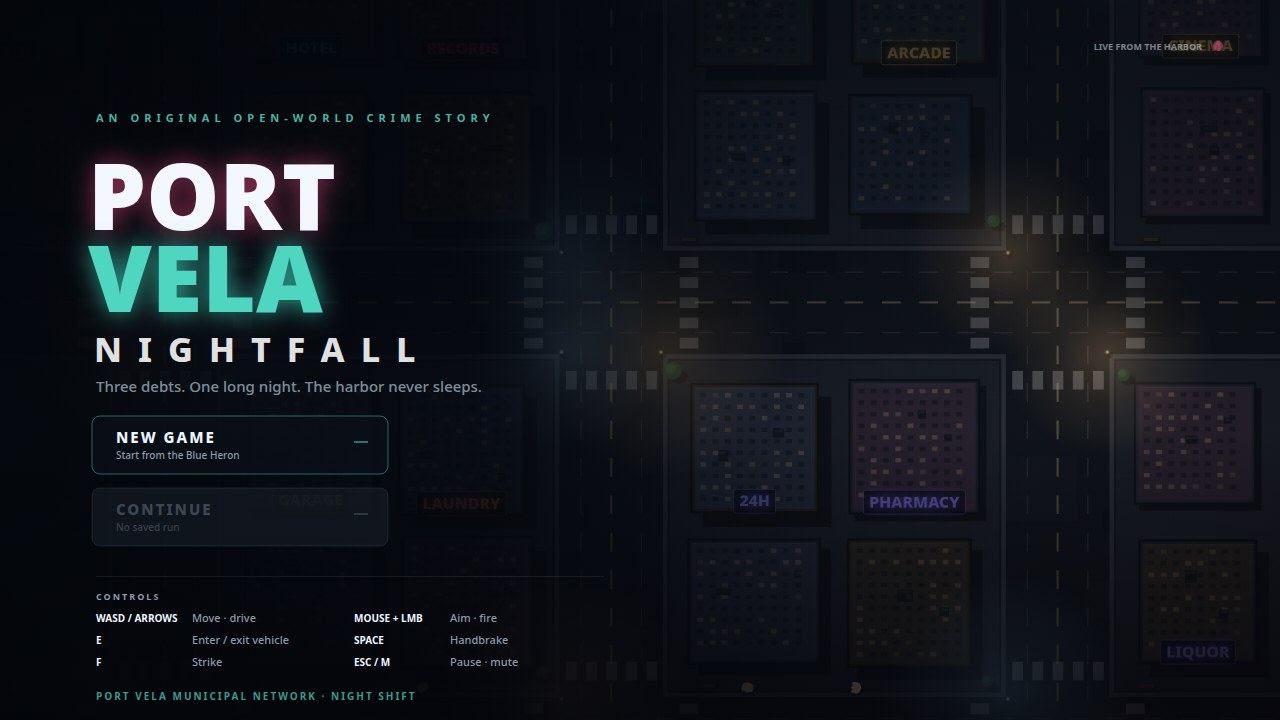
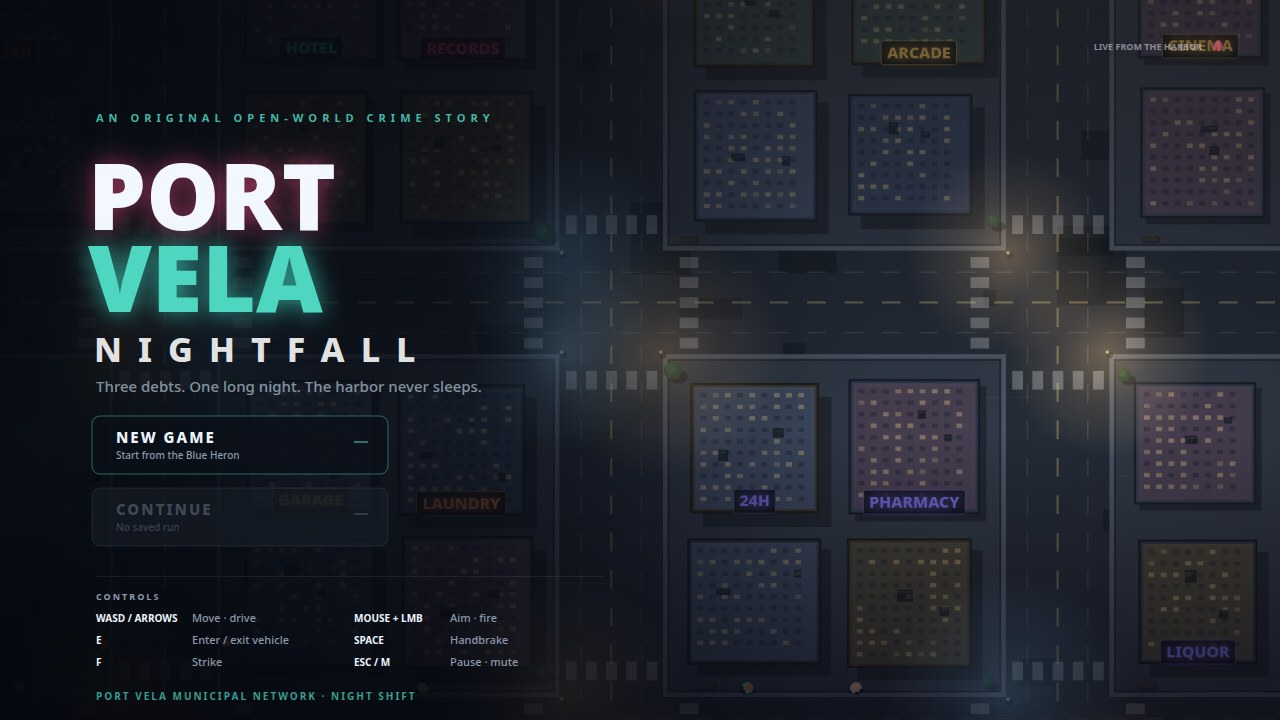
polish: brighter dusk palette, minimap landmarks, pause stats
Lift the city out of near-black so the screenshots read at a glance, warm the
light pools, mark VPD and Mercy on the minimap, and show chapter, cash, takedowns
and heat on the pause screen. Regenerate all four Chromium screenshots.

Changed region(s): [[0.375, 0.0, 1.0, 1.0], [0.5625, 0.0, 0.5938, 0.0306]]

diff --git a/game/src/render.js b/game/src/render.js
@@ -40,9 +40,9 @@ export function createRenderer(canvas) {
     if (sw > 0 && sh > 0) ctx.drawImage(cityCanvas, sx, sy, sw, sh, sx, sy, sw, sh);
 
     const g = ctx.createLinearGradient(v.x, v.y, v.x, v.y + v.h);
-    g.addColorStop(0, 'rgba(6,10,22,0.30)');
-    g.addColorStop(0.55, 'rgba(4,7,16,0.22)');
-    g.addColorStop(1, 'rgba(2,4,10,0.38)');
+    g.addColorStop(0, 'rgba(34,48,78,0.16)');
+    g.addColorStop(0.55, 'rgba(18,26,46,0.08)');
+    g.addColorStop(1, 'rgba(10,16,32,0.18)');
     ctx.fillStyle = g;
     ctx.fillRect(v.x, v.y, v.w, v.h);
 
@@ -65,8 +65,8 @@ export function createRenderer(canvas) {
       if (lamp.x < v.x - 190 || lamp.x > v.x + v.w + 190 || lamp.y < v.y - 190 || lamp.y > v.y + v.h + 190) continue;
       const grad = ctx.createRadialGradient(lamp.x, lamp.y, 4, lamp.x, lamp.y, lamp.r);
       const warm = lamp.tone > 0.55 ? '255,190,110' : '130,210,255';
-      grad.addColorStop(0, `rgba(${warm},0.28)`);
-      grad.addColorStop(0.45, `rgba(${warm},0.11)`);
+      grad.addColorStop(0, `rgba(${warm},0.36)`);
+      grad.addColorStop(0.45, `rgba(${warm},0.15)`);
       grad.addColorStop(1, `rgba(${warm},0)`);
       ctx.fillStyle = grad;
       ctx.beginPath();
@@ -253,7 +253,7 @@ export function createRenderer(canvas) {
   function drawVignette(game) {
     const grad = ctx.createRadialGradient(VIEW.width / 2, VIEW.height / 2, VIEW.height * 0.34, VIEW.width / 2, VIEW.height / 2, VIEW.width * 0.76);
     grad.addColorStop(0, 'rgba(0,0,0,0)');
-    grad.addColorStop(1, 'rgba(0,0,0,0.48)');
+    grad.addColorStop(1, 'rgba(0,0,0,0.28)');
     ctx.fillStyle = grad;
     ctx.fillRect(0, 0, VIEW.width, VIEW.height);
     if (game.effects.flash > 0) {
@@ -263,9 +263,9 @@ export function createRenderer(canvas) {
       ctx.globalAlpha = 1;
     }
     const scan = ctx.createLinearGradient(0, 0, 0, VIEW.height);
-    scan.addColorStop(0, 'rgba(90,140,190,0.05)');
+    scan.addColorStop(0, 'rgba(255,168,110,0.06)');
     scan.addColorStop(0.5, 'rgba(0,0,0,0)');
-    scan.addColorStop(1, 'rgba(160,70,120,0.05)');
+    scan.addColorStop(1, 'rgba(150,90,210,0.06)');
     ctx.fillStyle = scan;
     ctx.fillRect(0, 0, VIEW.width, VIEW.height);
   }
@@ -460,11 +460,11 @@ function buildCityCanvas() {
         c.fill();
       }
       c.globalAlpha = 1;
-      c.fillStyle = '#34372f';
+      c.fillStyle = '#4b4e42';
       c.fillRect(block.x0 + (block.x1 - block.x0) / 2 - 14, block.y0, 28, block.y1 - block.y0);
       c.fillRect(block.x0, block.y0 + (block.y1 - block.y0) / 2 - 14, block.x1 - block.x0, 28);
     } else if (block.type === 'lot') {
-      c.fillStyle = '#1b2028';
+      c.fillStyle = '#2e3642';
       c.fillRect(block.x0, block.y0, block.x1 - block.x0, block.y1 - block.y0);
       c.strokeStyle = 'rgba(190,190,160,0.22)';
       c.lineWidth = 2;
@@ -479,9 +479,9 @@ function buildCityCanvas() {
         c.stroke();
       }
     } else {
-      c.fillStyle = '#262b34';
+      c.fillStyle = '#3a4350';
       c.fillRect(block.x0, block.y0, block.x1 - block.x0, block.y1 - block.y0);
-      c.fillStyle = 'rgba(255,255,255,0.025)';
+      c.fillStyle = 'rgba(255,255,255,0.05)';
       for (let i = 0; i < 10; i++) c.fillRect(block.x0 + rng() * (block.x1 - block.x0), block.y0 + rng() * (block.y1 - block.y0), 30 + rng() * 80, 2);
     }
     c.strokeStyle = COLORS.sidewalkEdge;
@@ -604,7 +604,7 @@ function drawRoadMarkings(c) {
 
 function drawBuilding(c, b) {
   const shadow = 8 + b.height * 2.4;
-  c.fillStyle = 'rgba(0,0,0,0.46)';
+  c.fillStyle = 'rgba(0,0,0,0.32)';
   c.fillRect(b.x + shadow * 0.5, b.y + shadow * 0.55, b.w, b.h);
   c.fillStyle = b.wall;
   c.fillRect(b.x, b.y, b.w, b.h);
@@ -621,8 +621,8 @@ function drawBuilding(c, b) {
   const cols = Math.max(1, Math.floor((b.w - 20) / 17));
   for (let r = 0; r < rows; r++) {
     for (let q = 0; q < cols; q++) {
-      const lit = hash01(r * 17 + q * 3 + b.x + b.y + b.lit * 40) > 0.68;
-      c.fillStyle = lit ? `rgba(255,214,145,${0.14 + hash01(q + r) * 0.18})` : 'rgba(8,14,24,0.42)';
+      const lit = hash01(r * 17 + q * 3 + b.x + b.y + b.lit * 40) > 0.58;
+      c.fillStyle = lit ? `rgba(255,218,150,${0.24 + hash01(q + r) * 0.24})` : 'rgba(18,26,38,0.32)';
       c.fillRect(b.x + 14 + q * 17, b.y + 14 + r * 16, 8, 6);
     }
   }

diff --git a/game/src/hud.js b/game/src/hud.js
@@ -275,6 +275,20 @@ function drawMinimap(ctx, game) {
     ctx.arc(m.x, m.y, 2.5, 0, TAU);
     ctx.fill();
   }
+  for (const lm of Object.values(game.city.landmarks)) {
+    const m = toMap(lm.pos.x, lm.pos.y);
+    if (m.x < x + 4 || m.x > x + size - 4 || m.y < y + 4 || m.y > y + size - 4) continue;
+    ctx.save();
+    ctx.translate(m.x, m.y);
+    ctx.rotate(Math.PI / 4);
+    ctx.fillStyle = lm.key === 'police'
+      ? 'rgba(130,174,255,0.9)'
+      : lm.key === 'hospital'
+        ? 'rgba(120,232,160,0.9)'
+        : 'rgba(126,214,230,0.6)';
+    ctx.fillRect(-2.4, -2.4, 4.8, 4.8);
+    ctx.restore();
+  }
 
   const marker = game.mission?.marker;
   if (marker) {
@@ -543,16 +557,16 @@ function drawCrosshair(ctx, game) {
 export function drawStartScreen(ctx, game, saveInfo, hoverId) {
   const t = game.time;
   const grad = ctx.createLinearGradient(0, 0, VIEW.width * 0.82, 0);
-  grad.addColorStop(0, 'rgba(4,7,13,0.96)');
-  grad.addColorStop(0.45, 'rgba(4,7,13,0.82)');
-  grad.addColorStop(0.78, 'rgba(4,7,13,0.24)');
-  grad.addColorStop(1, 'rgba(4,7,13,0)');
+  grad.addColorStop(0, 'rgba(6,10,18,0.92)');
+  grad.addColorStop(0.45, 'rgba(6,10,18,0.72)');
+  grad.addColorStop(0.78, 'rgba(6,10,18,0.16)');
+  grad.addColorStop(1, 'rgba(6,10,18,0)');
   ctx.fillStyle = grad;
   ctx.fillRect(0, 0, VIEW.width, VIEW.height);
   const top = ctx.createLinearGradient(0, 0, 0, VIEW.height);
-  top.addColorStop(0, 'rgba(2,4,9,0.55)');
-  top.addColorStop(0.6, 'rgba(2,4,9,0.05)');
-  top.addColorStop(1, 'rgba(2,4,9,0.7)');
+  top.addColorStop(0, 'rgba(2,4,9,0.42)');
+  top.addColorStop(0.6, 'rgba(2,4,9,0.03)');
+  top.addColorStop(1, 'rgba(2,4,9,0.58)');
   ctx.fillStyle = top;
   ctx.fillRect(0, 0, VIEW.width, VIEW.height);
 
@@ -671,6 +685,12 @@ export function drawPause(ctx, game, hoverId) {
   ctx.fillStyle = COLORS.muted;
   ctx.font = `500 13px ${FONT}`;
   ctx.fillText('Port Vela keeps moving without you.', VIEW.width / 2, 312);
+  const chapter = game.mission.done ? 'FREE ROAM' : `MISSION ${game.mission.index + 1} / ${game.mission.total}`;
+  ctx.fillStyle = 'rgba(238,245,255,0.82)';
+  ctx.font = `700 12px ${FONT}`;
+  ctx.letterSpacing = '1px';
+  ctx.fillText(`${chapter}   ·   ${formatMoney(game.money)}   ·   ${game.kills} TAKEDOWNS   ·   ${Math.max(0, game.wanted.stars)}/5 HEAT`, VIEW.width / 2, 340);
+  ctx.letterSpacing = '0px';
   for (const b of PAUSE_BUTTONS) {
     const hover = hoverId === b.id;
     ctx.fillStyle = hover ? 'rgba(79,214,192,0.22)' : 'rgba(10,16,24,0.82)';

diff --git a/game/src/config.js b/game/src/config.js
@@ -54,20 +54,20 @@ export const STORY = {
 };
 
 export const COLORS = {
-  void: '#05070d',
-  asphalt: '#161b22',
-  asphaltLight: '#1d232c',
-  patch: '#12161c',
+  void: '#0a1220',
+  asphalt: '#2a323d',
+  asphaltLight: '#333c49',
+  patch: '#232a34',
   lane: '#c7b779',
   laneDim: '#857a4d',
-  sidewalk: '#2b3038',
-  sidewalkEdge: '#3b424c',
-  curb: '#49515d',
-  grass: '#1f352b',
-  grassLight: '#274435',
+  sidewalk: '#48515e',
+  sidewalkEdge: '#5b6674',
+  curb: '#6a7484',
+  grass: '#2c4a3a',
+  grassLight: '#3c624f',
   water: '#0d2433',
-  roof: ['#2b3140', '#333a4b', '#2e3a3a', '#3c3140', '#3a352b', '#293344'],
-  wall: ['#222833', '#282f3b', '#252f2e', '#302732', '#2f2b23', '#212a36'],
+  roof: ['#414c60', '#4b5870', '#435452', '#564b5e', '#56503f', '#3d4a62'],
+  wall: ['#333c4b', '#3a4557', '#354744', '#473b4b', '#484234', '#334156'],
   neon: ['#ff4f8b', '#45e2cb', '#ffc857', '#8a7dff', '#ff8747', '#6cd7ff'],
   player: '#4fd6c0',
   playerDark: '#1d6f68',
